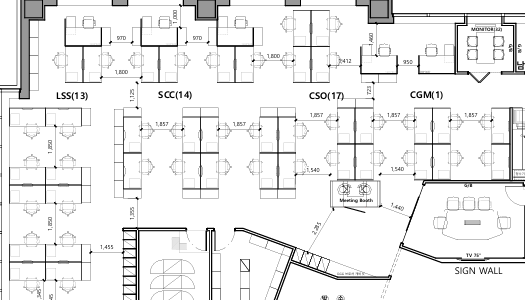
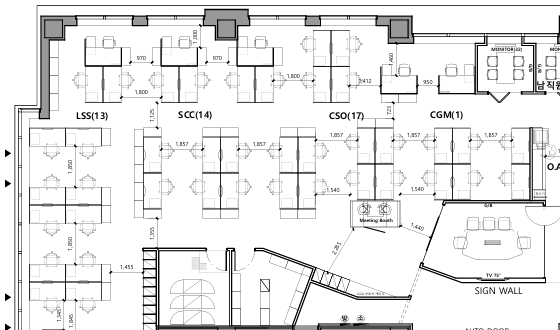
realign seats to desk geometry, include top wall in crop

diff --git a/app.py b/app.py
@@ -14,7 +14,7 @@ TZ = ZoneInfo("Asia/Seoul")
 DB_PATH = Path(os.environ.get("SEAT_DB", ROOT / "data" / "seats.db"))
 USERS_PATH = ROOT / "users.json"
 SEATS_PATH = ROOT / "seats.json"
-CROP_X, CROP_Y = 20, 20  # floor.png는 1.png를 (20,20)에서 크롭한 것
+CROP_X, CROP_Y = 0, 0  # floor.png는 1.png의 (0,0)-(560,330) 크롭
 _LOCK = threading.Lock()
 
 
@@ -97,7 +97,7 @@ def seat_map_svg(seats, taken, me) -> str:
     import base64
 
     img = base64.b64encode((ROOT / "floor.png").read_bytes()).decode()
-    w, h = 525, 300
+    w, h = 560, 330
     circles = []
     for s in seats:
         x, y = s["x"] - CROP_X, s["y"] - CROP_Y
@@ -160,7 +160,7 @@ def main():
             cancel(con, me)
             st.rerun()
 
-    components.html(seat_map_svg(seats, taken, me), height=340, scrolling=False)
+    components.html(seat_map_svg(seats, taken, me), height=360, scrolling=False)
 
     st.markdown("#### 자리 선택")
     zones: dict[str, list] = {}

diff --git a/test_app.py b/test_app.py
@@ -22,4 +22,4 @@ def test_seats_inside_crop():
     assert len(seats) == 32
     assert len({s["id"] for s in seats}) == 32
     for s in seats:
-        assert 0 <= s["x"] - app.CROP_X <= 525 and 0 <= s["y"] - app.CROP_Y <= 300
+        assert 0 <= s["x"] - app.CROP_X <= 560 and 0 <= s["y"] - app.CROP_Y <= 330

diff --git a/README.md b/README.md
@@ -16,9 +16,9 @@ docker build -t yang-seat . && docker run -d -p 8501:8501 -v seatdata:/app/data 
 | 파일 | 역할 |
 |---|---|
 | `app.py` | 앱 전체 (로그인·좌석 맵 SVG·선점/취소·SQLite) |
-| `seats.json` | 좌석 32개 좌표 (2.jpg 빨간 점을 자동 추출, id/zone 편집 가능) |
+| `seats.json` | 좌석 32개 좌표 (도면 의자 위치에 맞춰 정렬; L=LSS 13, S=SCC 6, C=CSO 13) |
 | `users.json` | `{ "id": "pw" }` 계정 목록 — 여기만 고치면 사용자 추가 |
-| `floor.png` | 1.png에서 좌석 구역만 크롭(20,20 오프셋) |
+| `floor.png` | 1.png 좌상단 (0,0)-(560,330) 크롭 — 상단 벽까지 포함 |
 | `data/seats.db` | 예약 DB (자동 생성, gitignore) |
 
 ## 초기화 방식
